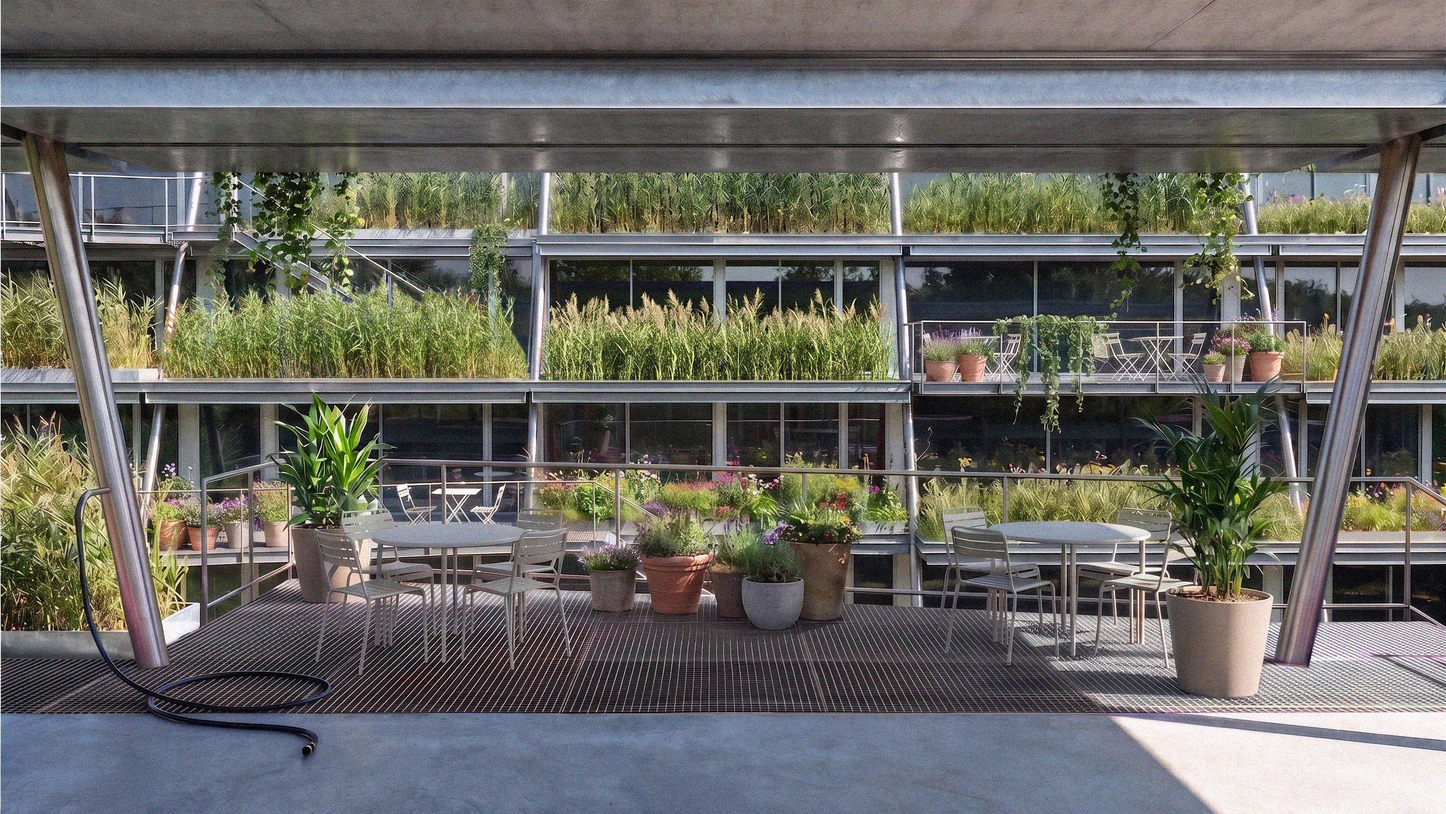
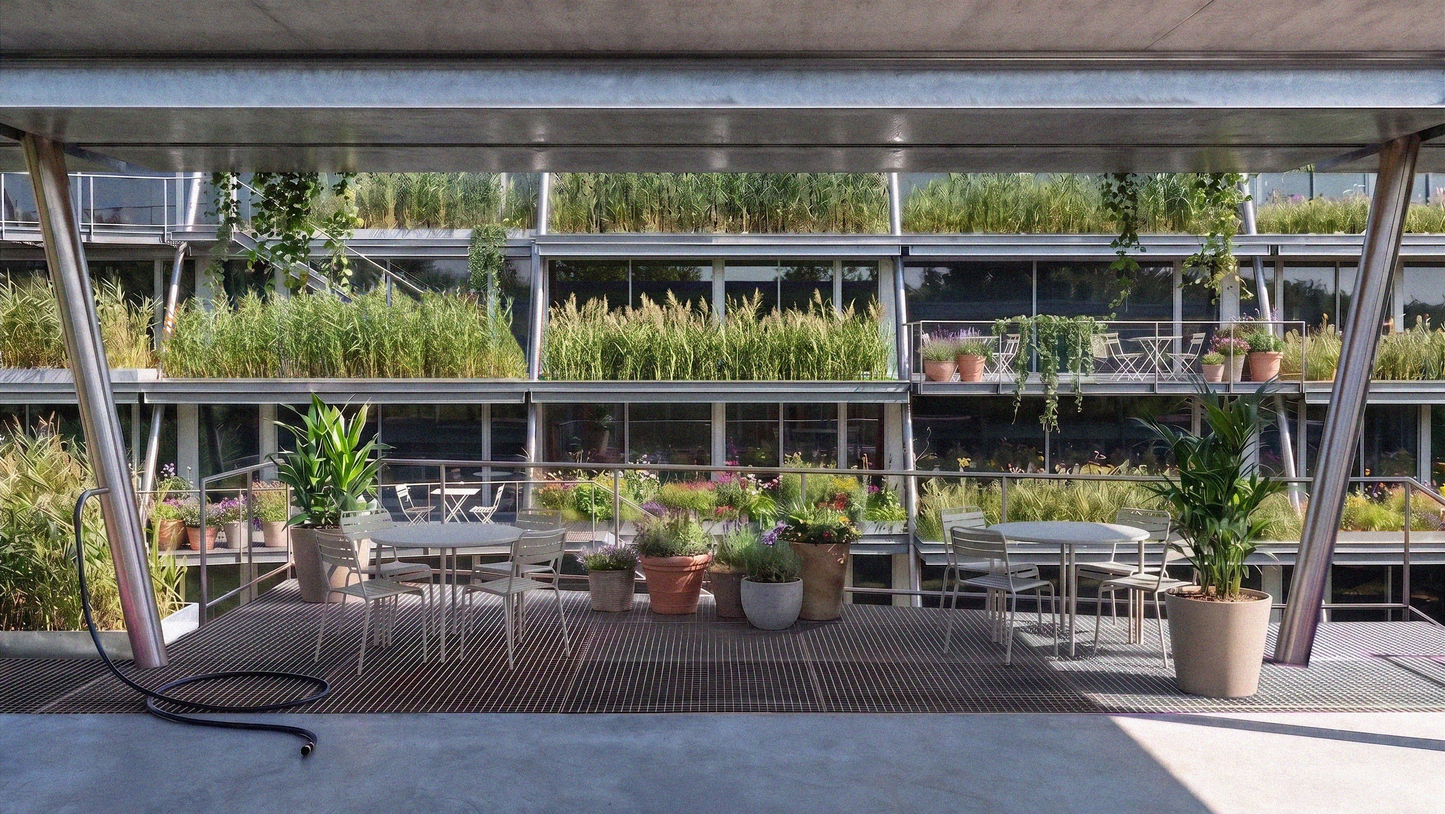
Phytocatalyst: weißen Rand links an der Visualisierung entfernt; Index-Hover: Titel in Schwarz
Claude-Session: https://claude.ai/code/session_01VoorAPbCYiWHWXNawh2e1D

Changed region(s): [[0.0, 0.0, 0.8413, 1.0], [0.3739, 0.9375, 0.4051, 0.9688]]

diff --git a/index.html b/index.html
@@ -489,6 +489,11 @@ html.away #ixc .w { animation: none; }
 #ixp.on { opacity: 1; }
 #ixp img { display: block; width: 100%; height: auto; }
 .ix a:hover .w, .ix a:focus-visible .w { opacity: 0.45; }
+/* 19.11.: index hover: title shown in pure black (a copy outside the difference blend), the original word is hidden */
+#ixh { position: fixed; left: 0; top: 0; z-index: 46; pointer-events: none; color: #000; white-space: nowrap; display: none; }
+#ixh.on { display: block; }
+#ixh .w { color: #000 !important; -webkit-text-fill-color: #000; animation: vib 0.28s linear infinite; animation-delay: calc(var(--i, 0) * 70ms + 80ms); }
+html.ixhon .ix a.ixhov .it .w { opacity: 0 !important; }
 @media (hover: none) { #ixp { display: none; } }
 
 /* 18.11.: about without portrait */
@@ -634,7 +639,7 @@ html.curon, html.curon *:not(canvas):not(input):not(textarea) { cursor: none !im
         en: ['Phytocatalyst is a study exploring how nature and natural processes can foster communal living. It reimagines the potentially obsolete typology of a parking garage as a new form of collective housing. Shared terraces with planting beds, a vertical constructed wetland and communal circulation spaces form a social infrastructure at the heart of the building, turning community into a lived practice.', 'A section of the existing structure is removed to provide sufficient daylight for the apartments. This opening is complemented by suspended planting beds and water basins, connecting the apartments’ outdoor spaces and transforming them into productive social spaces that strengthen neighbourhood ties. Treated greywater cascades into a central pond before being pumped back to each floor, where residents can access it for watering plants. Rainwater is collected on the roofs and reused for toilet flushing.'],
         de: ['Phytocatalyst ist eine Studie darüber, wie die Natur und natürliche Prozesse das gemeinschaftliche Wohnen fördern können. Sie denkt die potenziell überflüssig werdende Typologie des Parkhauses als neue Form kollektiven Wohnens neu. Gemeinschaftliche Terrassen mit Pflanzbeeten, eine vertikale Pflanzenkläranlage und gemeinsame Erschließungsräume bilden eine soziale Infrastruktur im Herzen des Gebäudes und machen Gemeinschaft zu gelebter Praxis.', 'Ein Teil der bestehenden Struktur wird entfernt, damit die Wohnungen ausreichend Tageslicht erhalten. Diese Öffnung wird durch abgehängte Pflanzbeete und Wasserbecken ergänzt, die die Außenräume der Wohnungen verbinden und sie in produktive soziale Räume verwandeln, welche die Nachbarschaft stärken. Gereinigtes Grauwasser fließt kaskadenartig in einen zentralen Teich, bevor es zurück in jedes Geschoss gepumpt wird, wo die Bewohnerinnen und Bewohner es zum Gießen der Pflanzen nutzen können. Regenwasser wird auf den Dächern gesammelt und für die Toilettenspülung wiederverwendet.']
       },
-      gal: [{"quote": "\u201cI realized that I can neither live without nature in the city nor spend my entire life in untouched nature. I need people, I need culture, and everything that comes with it.\u201d", "by": "Ot Hoffmann, interview for Biotope City", "href": "https://biotope-city.net/ein-pionier-interview-mit-ot-hofmann/", "quote_de": "\u201eDa ist mir bewusst geworden, dass ich weder ohne Natur in der Stadt leben kann, noch kann ich dort in dieser wundersch\u00f6nen Natur immer leben. Ich brauch die Menschen, ich brauch die Kultur und alles M\u00f6gliche.\u201c", "by_de": "Ot Hoffmann, Interview f\u00fcr Biotope City"}, {"src": "img/ph-01-existing.webp", "w": 1280, "h": 939, "cap": "existing building, \u00a9 j\u00fcrgen henschel", "s": 1}, {"src": "img/ph-02-interior.webp", "w": 1280, "h": 1651, "cap": "existing parking deck", "s": 1, "sc": 1.301}, {"src": "img/ph-06-plants-v2.webp", "w": 963, "h": 963, "cap": "planting", "s": 1, "sc": 0.98}, {"src": "img/ph-03-axo-1.webp", "w": 1938, "h": 2236, "cap": "axonometry", "s": 1, "sc": 0.463, "ctr": 1, "mid": 1}, {"src": "img/ph-04-axo-2.webp", "w": 1327, "h": 2400, "cap": "axonometry", "s": 1, "sc": 0.956, "ctr": 1}, {"src": "img/ph-05-axo-3.webp", "w": 1947, "h": 2286, "cap": "axonometry", "s": 1, "sc": 0.591, "ctr": 1, "mid": 1}, {"src": "img/ph-07-plan-v2.webp", "w": 2400, "h": 1395, "cap": "floor plan", "s": 1, "sc": 1.28, "ctr": 1}, {"src": "img/ph-08-detail.webp", "w": 1459, "h": 2400, "cap": "detail axonometry", "s": 1, "sc": 1.45, "ctr": 1}, {"src": "img/ph-09-section.webp", "w": 2800, "h": 1260, "cap": "section", "s": 1, "sc": 1.35, "ctr": 1}, {"src": "img/ph-cover.webp", "w": 2000, "h": 2000, "cap": "model", "s": 1}, {"src": "img/ph-10-view.webp", "w": 2730, "h": 1536, "cap": "visualisation", "s": 1, "sc": 1.387}] },
+      gal: [{"quote": "\u201cI realized that I can neither live without nature in the city nor spend my entire life in untouched nature. I need people, I need culture, and everything that comes with it.\u201d", "by": "Ot Hoffmann, interview for Biotope City", "href": "https://biotope-city.net/ein-pionier-interview-mit-ot-hofmann/", "quote_de": "\u201eDa ist mir bewusst geworden, dass ich weder ohne Natur in der Stadt leben kann, noch kann ich dort in dieser wundersch\u00f6nen Natur immer leben. Ich brauch die Menschen, ich brauch die Kultur und alles M\u00f6gliche.\u201c", "by_de": "Ot Hoffmann, Interview f\u00fcr Biotope City"}, {"src": "img/ph-01-existing.webp", "w": 1280, "h": 939, "cap": "existing building, \u00a9 j\u00fcrgen henschel", "s": 1}, {"src": "img/ph-02-interior.webp", "w": 1280, "h": 1651, "cap": "existing parking deck", "s": 1, "sc": 1.301}, {"src": "img/ph-06-plants-v2.webp", "w": 963, "h": 963, "cap": "planting", "s": 1, "sc": 0.98}, {"src": "img/ph-03-axo-1.webp", "w": 1938, "h": 2236, "cap": "axonometry", "s": 1, "sc": 0.463, "ctr": 1, "mid": 1}, {"src": "img/ph-04-axo-2.webp", "w": 1327, "h": 2400, "cap": "axonometry", "s": 1, "sc": 0.956, "ctr": 1}, {"src": "img/ph-05-axo-3.webp", "w": 1947, "h": 2286, "cap": "axonometry", "s": 1, "sc": 0.591, "ctr": 1, "mid": 1}, {"src": "img/ph-07-plan-v2.webp", "w": 2400, "h": 1395, "cap": "floor plan", "s": 1, "sc": 1.28, "ctr": 1}, {"src": "img/ph-08-detail.webp", "w": 1459, "h": 2400, "cap": "detail axonometry", "s": 1, "sc": 1.45, "ctr": 1}, {"src": "img/ph-09-section.webp", "w": 2800, "h": 1260, "cap": "section", "s": 1, "sc": 1.35, "ctr": 1}, {"src": "img/ph-cover.webp", "w": 2000, "h": 2000, "cap": "model", "s": 1}, {"src": "img/ph-10-view.webp", "w": 2728, "h": 1536, "cap": "visualisation", "s": 1, "sc": 1.387}] },
     { id: 'bda-galerie-berlin', t: 'bda galerie berlin', y: 2024, kind: 'photo', ar: '1 / 1', cover: 'img/kn-02-wall.webp', cw: 2362, ch: 2362, cn: 7, cm: 7,
       sub: 'knaupen als kulturtechnik, vorbereitende untersuchungen einer neuen ästhetik des bauens', who: 'malik al bosta, ferdinand arends, hendrik kronenberger, jens metz,<br>frederic omlor, ulrich pantle, marco schneider, max sordon', place: 'berlin, germany',
       text: {"en": ["The exhibition Knaupen als Kulturtechnik \u2013 Vorbereitende Untersuchungen zu einer neuen \u00c4sthetik des Bauens (Knaupen as a Cultural Technique \u2013 Preliminary Studies towards a New Aesthetic of Building) was on display at the BDA Gallery in Berlin from September to October 2024.", "Knaupen, also spelled Knauben, is a term used in the Saarland region and neighbouring areas to describe a predominantly manual, amateur practice of working on buildings or around and inside the home. It can be understood as a form of DIY or bricolage (FR). The meaning is not clearly defined and ranges from poorly executed repairs using unsuitable materials that only last for a short time, to the efficient (re)establishment of the functionality of even complex building projects using the simplest means, sometimes resulting in a certain degree of elegance.", "Today, this sustainable and humanistic approach to reusing objects and building components that would otherwise be considered waste or beyond repair is more relevant than ever. The exhibition seeks to introduce this rudimentary practice, deeply rooted in the cultural fabric of the Saarland, and the different, perhaps even desirable, aesthetic of building that emerges from it.", "An exhibition catalogue was subsequently developed in collaboration with Max Sordon and published in an edition of 400 copies. Some of the exhibits were further developed and reworked for a subsequent exhibition at the Kulturzentrum am Eurobahnhof KuBa in Saarbr\u00fccken in June and July 2025. Afterwards, they were further modified, rebuilt, repurposed or dismantled, each finding its way back into a cycle of reuse and transformation."], "de": ["Die Ausstellung Knaupen als Kulturtechnik \u2013 Vorbereitende Untersuchungen zu einer neuen \u00c4sthetik des Bauens war von September bis Oktober 2024 in der BDA Galerie in Berlin zu sehen.", "Knaupen, auch Knauben geschrieben, ist ein Begriff aus dem Saarland und den angrenzenden Regionen f\u00fcr eine \u00fcberwiegend handwerkliche, laienhafte Praxis des Arbeitens an Geb\u00e4uden oder rund um und im Haus. Man kann sie als eine Form von Heimwerken oder Bricolage (FR) verstehen. Die Bedeutung ist nicht klar umrissen und reicht von schlecht ausgef\u00fchrten Reparaturen mit ungeeigneten Materialien, die nur kurz halten, bis zur effizienten (Wieder-)Herstellung der Funktion auch komplexer Bauvorhaben mit einfachsten Mitteln, bisweilen mit einem gewissen Grad an Eleganz.", "Heute ist dieser nachhaltige und humanistische Umgang mit der Wiederverwendung von Gegenst\u00e4nden und Bauteilen, die sonst als Abfall oder nicht mehr reparabel gelten w\u00fcrden, relevanter denn je. Die Ausstellung m\u00f6chte diese rudiment\u00e4re, tief in der Kultur des Saarlandes verwurzelte Praxis vorstellen und die andere, vielleicht sogar w\u00fcnschenswerte \u00c4sthetik des Bauens, die daraus entsteht.", "Anschlie\u00dfend entstand in Zusammenarbeit mit Max Sordon ein Ausstellungskatalog in einer Auflage von 400 Exemplaren. Einige der Exponate wurden f\u00fcr eine folgende Ausstellung im Kulturzentrum am Eurobahnhof KuBa in Saarbr\u00fccken im Juni und Juli 2025 weiterentwickelt und \u00fcberarbeitet. Danach wurden sie weiter ver\u00e4ndert, umgebaut, umgenutzt oder demontiert und fanden so jeweils ihren Weg zur\u00fcck in einen Kreislauf aus Wiederverwendung und Verwandlung."]},
@@ -1200,6 +1205,19 @@ html.curon, html.curon *:not(canvas):not(input):not(textarea) { cursor: none !im
       if (c) { c.i = i; covers[p.id] = c; var pre = new Image(); pre.src = c.src; }
     });
     var on = null;
+    var hx = document.createElement('div'); hx.id = 'ixh'; hx.setAttribute('aria-hidden', 'true'); document.body.appendChild(hx);
+    var hov = null;
+    function hideH() { hx.classList.remove('on'); document.documentElement.classList.remove('ixhon'); if (hov) hov.classList.remove('ixhov'); hov = null; }
+    function showH(a) {
+      var t = a.querySelector('.it'); if (!t) return;
+      var r = t.getBoundingClientRect(), cs = getComputedStyle(t);
+      hx.innerHTML = t.innerHTML;
+      ['fontFamily', 'fontSize', 'fontWeight', 'letterSpacing', 'lineHeight', 'fontFeatureSettings', 'wordSpacing'].forEach(function (k) { hx.style[k] = cs[k]; });
+      hx.style.width = Math.ceil(r.width) + 'px'; hx.style.textAlign = cs.textAlign;
+      hx.style.transform = 'translate3d(' + r.left + 'px,' + r.top + 'px,0)';
+      if (hov) hov.classList.remove('ixhov'); hov = a; a.classList.add('ixhov');
+      hx.classList.add('on'); document.documentElement.classList.add('ixhon');
+    }
     function show(a, c) {
       var r = a.getBoundingClientRect(), t = a.querySelector('.it') || a, ws = t.querySelectorAll('.w'), tr = ws.length ? (function () { var f = ws[0].getBoundingClientRect(), l = ws[ws.length - 1].getBoundingClientRect(); return { right: l.right, width: l.right - f.left }; })() : t.getBoundingClientRect();
       var B = Math.max(120, Math.min(230, window.innerWidth * 0.13)), ar = (c.w && c.h) ? c.w / c.h : 1;
@@ -1221,10 +1239,13 @@ html.curon, html.curon *:not(canvas):not(input):not(textarea) { cursor: none !im
       if (id === on) return;
       on = id;
       if (id && covers[id] && indexOpen) show(a, covers[id]); else bx.classList.remove('on');
+      if (a && indexOpen && window.matchMedia('(hover: hover)').matches) showH(a); else hideH();
     });
-    window.addEventListener('scroll', function () { on = null; bx.classList.remove('on'); }, { passive: true });
-    window.addEventListener('hashchange', function () { on = null; bx.classList.remove('on'); });
-    document.addEventListener('click', function (e) { if (e.target.closest && e.target.closest('.ix a')) { on = null; bx.classList.remove('on'); } });
+    window.addEventListener('scroll', function () { on = null; bx.classList.remove('on'); hideH(); }, { passive: true });
+    document.addEventListener('scroll', function () { on = null; bx.classList.remove('on'); hideH(); }, { passive: true, capture: true });
+    window.addEventListener('hashchange', function () { on = null; bx.classList.remove('on'); hideH(); });
+    document.addEventListener('click', function (e) { if (e.target.closest && e.target.closest('.ix a')) { on = null; bx.classList.remove('on'); hideH(); } });
+    setInterval(function () { if (hov && !indexOpen) { on = null; bx.classList.remove('on'); hideH(); } }, 150);
   })();
 
   /* eigener Mauszeiger: gespiegelter Link-Pfeil, weiß im Differenz-Modus = immer invertiert zum Hintergrund */
